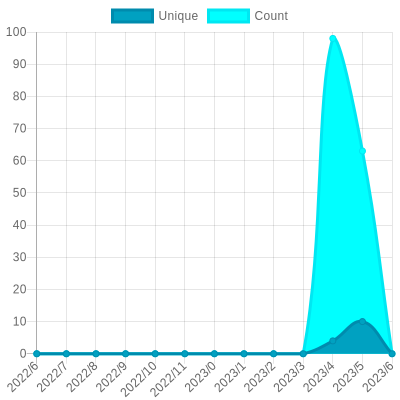
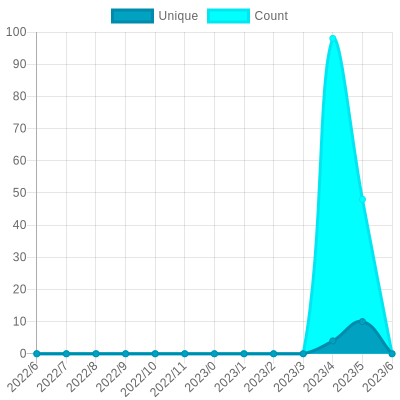
Update views

Changed region(s): [[0.84, 0.09, 0.99, 0.87], [0.78, 0.33, 0.81, 0.36]]

diff --git a/readme/495925535/year.md b/readme/495925535/year.md
@@ -37,7 +37,7 @@
 			<code>10</code>
 		</td>
 		<td>
-			<code>63</code>
+			<code>48</code>
 		</td>
 	</tr>
 	<tr>
@@ -164,7 +164,7 @@
 </table>
 
 </details>
-<small><i>Last updated on 2022/7/3 12:36 AM UTC</i></small>
+<small><i>Last updated on 2022/7/3 6:09 AM UTC</i></small>
 
 ## ✂Copy and 📋 Paste
 ### SVG Badge

diff --git a/README.md b/README.md
@@ -213,7 +213,7 @@ The project created and maintained by [gayanvoice](https://github.com/gayanvoice
 	</tr>
 </table>
 
-<small><i>Last updated on 2022/7/3 12:36 AM UTC</i></small>
+<small><i>Last updated on 2022/7/3 6:09 AM UTC</i></small>
 
 ## ✂Copy and 📋 Paste
 ### Total Views Badge

diff --git a/readme/189526881/year.md b/readme/189526881/year.md
@@ -164,7 +164,7 @@
 </table>
 
 </details>
-<small><i>Last updated on 2022/7/3 12:35 AM UTC</i></small>
+<small><i>Last updated on 2022/7/3 6:08 AM UTC</i></small>
 
 ## ✂Copy and 📋 Paste
 ### SVG Badge

diff --git a/readme/194013724/year.md b/readme/194013724/year.md
@@ -164,7 +164,7 @@
 </table>
 
 </details>
-<small><i>Last updated on 2022/7/3 12:35 AM UTC</i></small>
+<small><i>Last updated on 2022/7/3 6:08 AM UTC</i></small>
 
 ## ✂Copy and 📋 Paste
 ### SVG Badge

diff --git a/readme/198723757/year.md b/readme/198723757/year.md
@@ -164,7 +164,7 @@
 </table>
 
 </details>
-<small><i>Last updated on 2022/7/3 12:35 AM UTC</i></small>
+<small><i>Last updated on 2022/7/3 6:08 AM UTC</i></small>
 
 ## ✂Copy and 📋 Paste
 ### SVG Badge

diff --git a/readme/219424969/year.md b/readme/219424969/year.md
@@ -164,7 +164,7 @@
 </table>
 
 </details>
-<small><i>Last updated on 2022/7/3 12:35 AM UTC</i></small>
+<small><i>Last updated on 2022/7/3 6:07 AM UTC</i></small>
 
 ## ✂Copy and 📋 Paste
 ### SVG Badge

diff --git a/readme/436220390/year.md b/readme/436220390/year.md
@@ -164,7 +164,7 @@
 </table>
 
 </details>
-<small><i>Last updated on 2022/7/3 12:34 AM UTC</i></small>
+<small><i>Last updated on 2022/7/3 6:07 AM UTC</i></small>
 
 ## ✂Copy and 📋 Paste
 ### SVG Badge

diff --git a/readme/440320865/year.md b/readme/440320865/year.md
@@ -164,7 +164,7 @@
 </table>
 
 </details>
-<small><i>Last updated on 2022/7/3 12:35 AM UTC</i></small>
+<small><i>Last updated on 2022/7/3 6:08 AM UTC</i></small>
 
 ## ✂Copy and 📋 Paste
 ### SVG Badge

diff --git a/readme/464302186/year.md b/readme/464302186/year.md
@@ -164,7 +164,7 @@
 </table>
 
 </details>
-<small><i>Last updated on 2022/7/3 12:35 AM UTC</i></small>
+<small><i>Last updated on 2022/7/3 6:08 AM UTC</i></small>
 
 ## ✂Copy and 📋 Paste
 ### SVG Badge

diff --git a/readme/466861601/year.md b/readme/466861601/year.md
@@ -164,7 +164,7 @@
 </table>
 
 </details>
-<small><i>Last updated on 2022/7/3 12:35 AM UTC</i></small>
+<small><i>Last updated on 2022/7/3 6:08 AM UTC</i></small>
 
 ## ✂Copy and 📋 Paste
 ### SVG Badge

diff --git a/readme/471124606/year.md b/readme/471124606/year.md
@@ -164,7 +164,7 @@
 </table>
 
 </details>
-<small><i>Last updated on 2022/7/3 12:36 AM UTC</i></small>
+<small><i>Last updated on 2022/7/3 6:08 AM UTC</i></small>
 
 ## ✂Copy and 📋 Paste
 ### SVG Badge

diff --git a/readme/490430903/year.md b/readme/490430903/year.md
@@ -164,7 +164,7 @@
 </table>
 
 </details>
-<small><i>Last updated on 2022/7/3 12:36 AM UTC</i></small>
+<small><i>Last updated on 2022/7/3 6:09 AM UTC</i></small>
 
 ## ✂Copy and 📋 Paste
 ### SVG Badge
